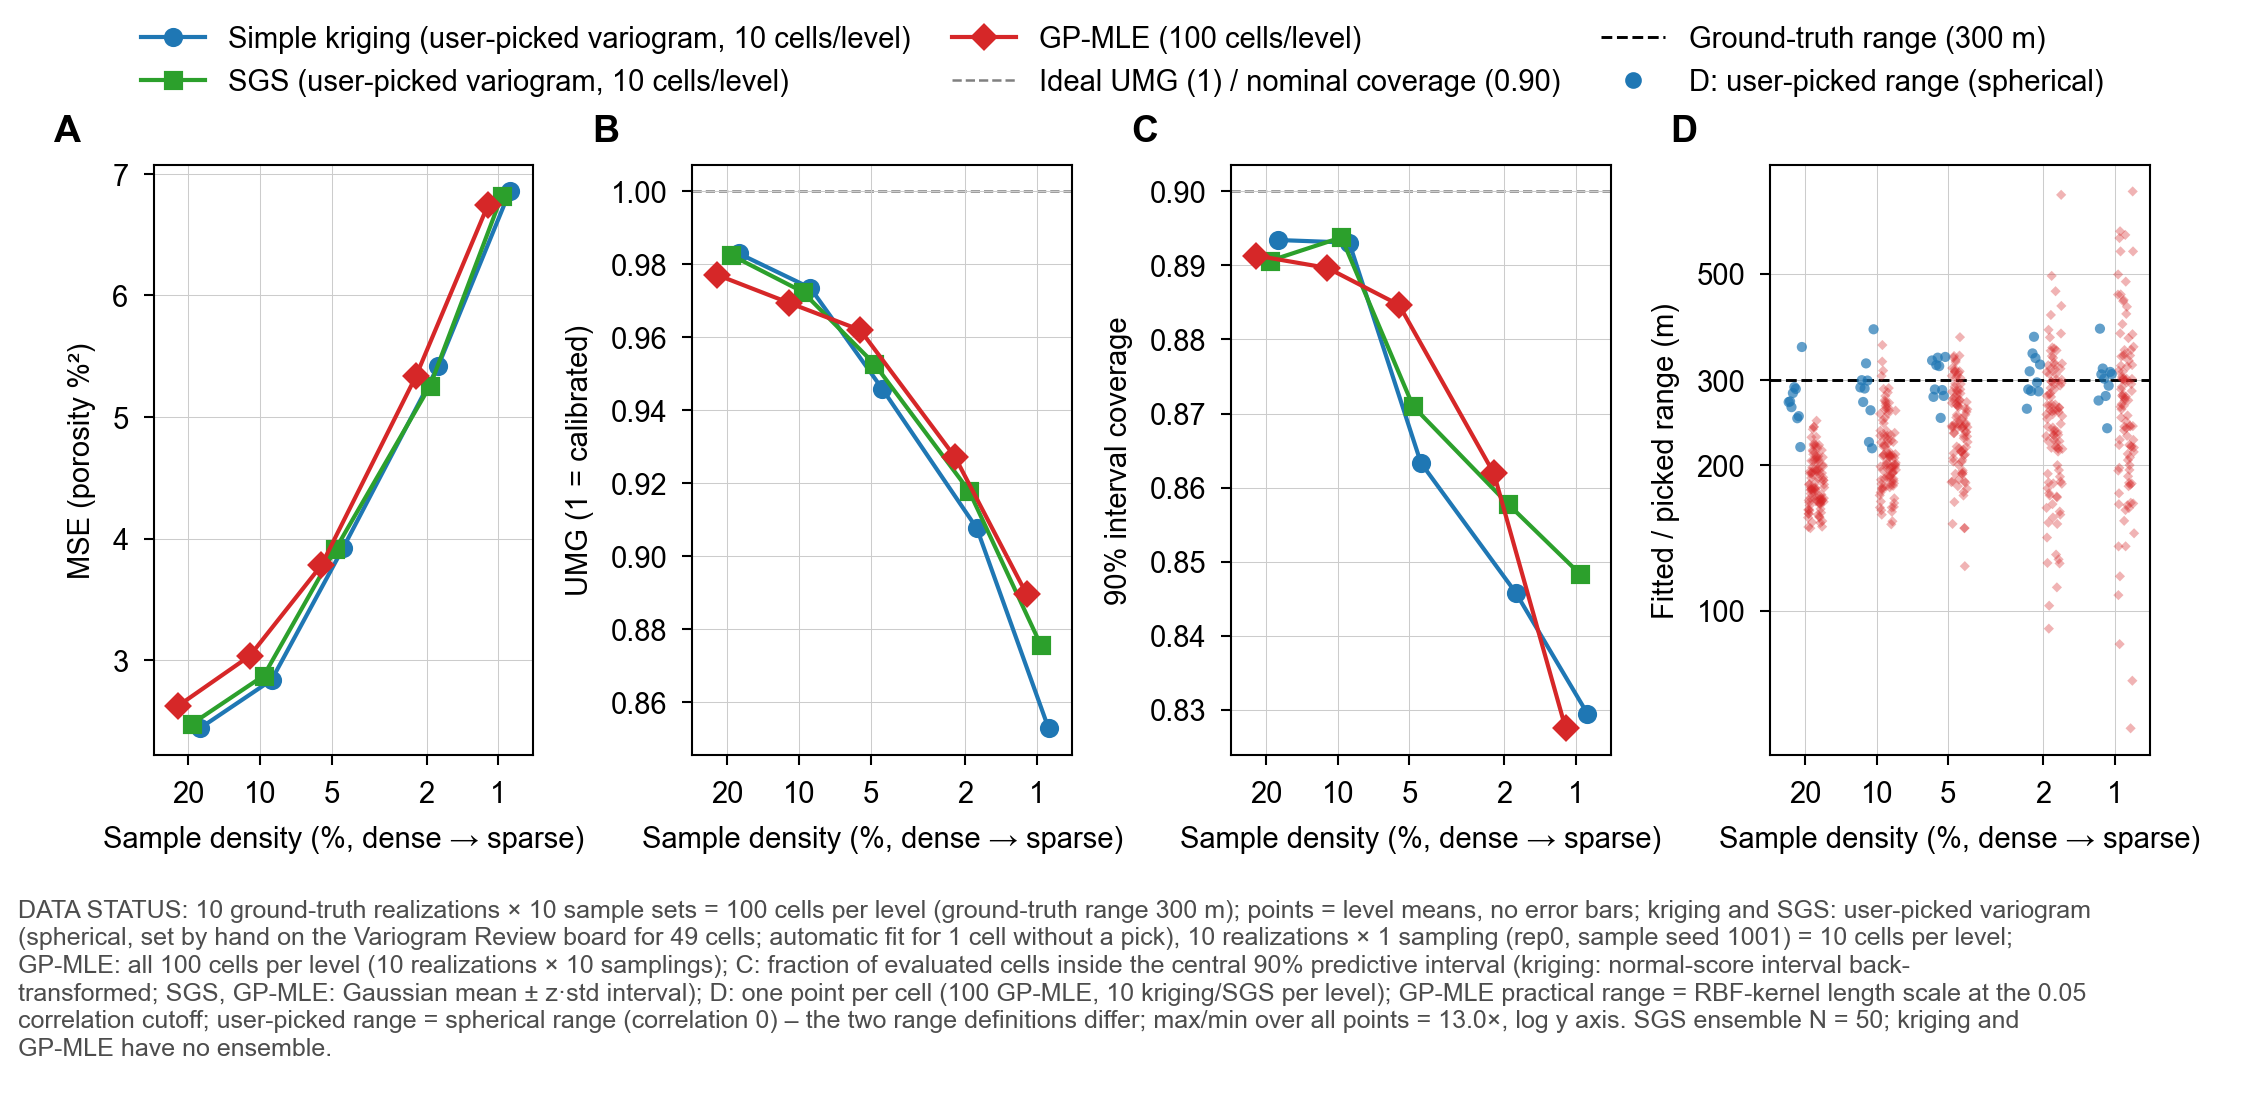
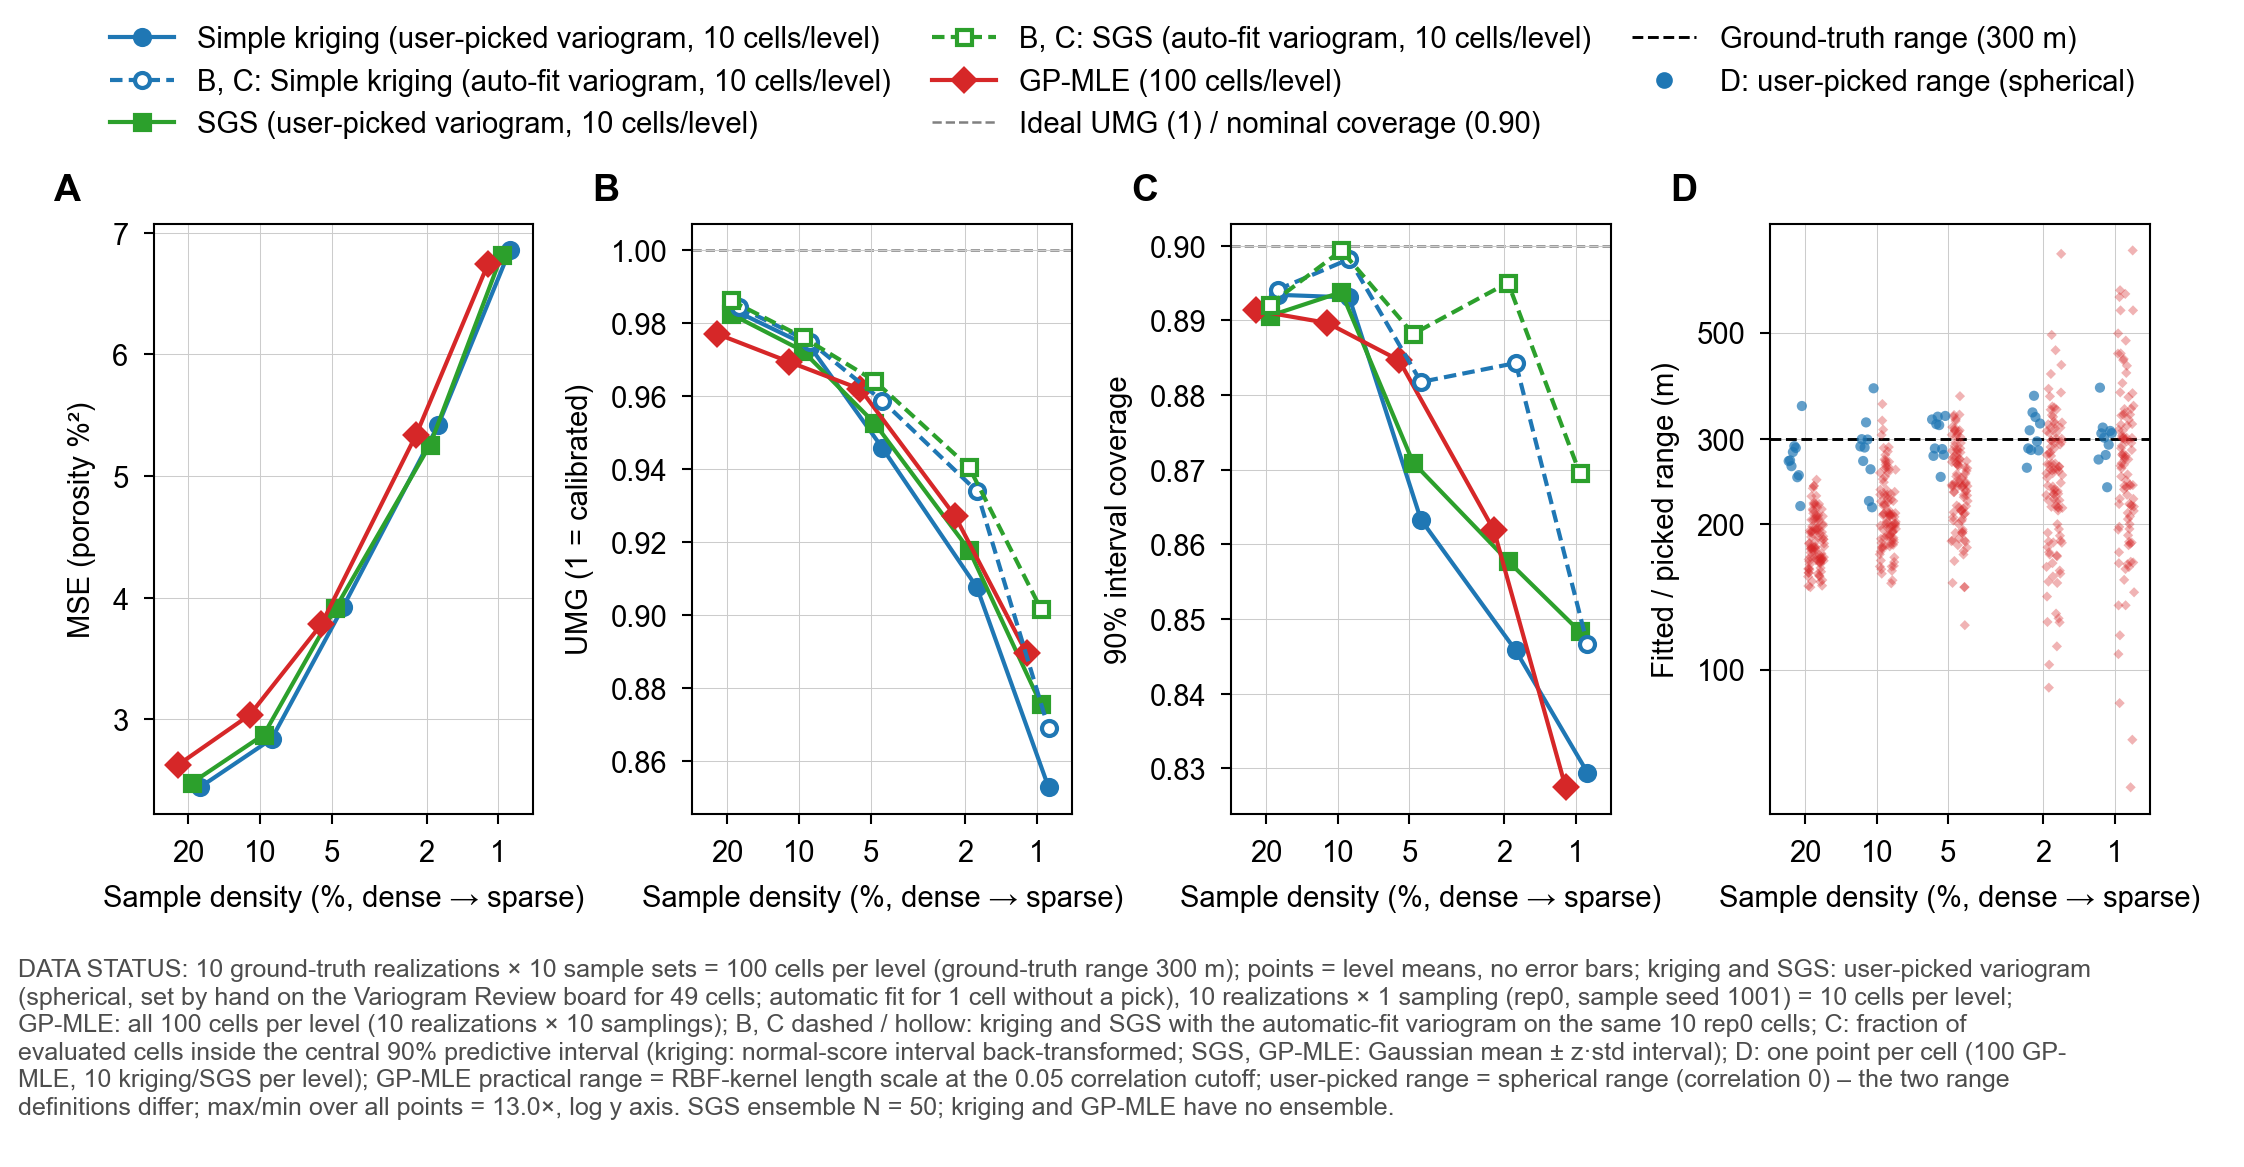
F3-2: show auto-fit-variogram kriging/SGS as dashed lines in B and C
User wants the confirmed-variogram results read against the automatic-fit
ones; drawn on the same 10 rep0 cells per density so the two differ only in
the variogram. F1-F7 outputs unchanged.

diff --git a/results/processed/paper_storyboard/make_storyboard_figures.py b/results/processed/paper_storyboard/make_storyboard_figures.py
@@ -1271,6 +1271,19 @@ def figure_f3_2(mt):
     pk["method"] = pk["method"].map({"kriging_picked": "kriging", "sgs_picked": "sgs"})
     summ = pd.concat([pk, gp_summ[pk.columns.intersection(gp_summ.columns)]], ignore_index=True)
     methods = ["kriging", "sgs", "gp_mle"]
+    # B, C extra series (user request 2026-11-18): kriging / SGS with the AUTOMATIC-fit
+    # variogram on the SAME rep0 cells (dashed, hollow markers)
+    im = read_metrics_csv(INF_METRICS)
+    im = im[(im["experiment"] == a["experiment"]) & (im["sample_rep"] == PICK_SAMPLE_REP)]
+    if set(im["method"]) != set(INF_METHODS) or \
+            set(zip(im["axis_level"], im["truth_seed"], im["sample_seed"])) != \
+            set(zip(pc["axis_level"], pc["truth_seed"], pc["sample_seed"])):
+        raise ValueError(f"{_rel(INF_METRICS)}: rep0 auto-fit cells differ from the user-picked cells.")
+    inf_summ = _summarize(im)
+    if set(inf_summ["n"]) != {n_pick}:
+        raise ValueError(f"{_rel(INF_METRICS)}: expected {n_pick} rep0 cells per level.")
+    summ_bc = pd.concat([summ, inf_summ[summ.columns.intersection(inf_summ.columns)]], ignore_index=True)
+    methods_bc = ["kriging", "kriging_inferred", "sgs", "sgs_inferred", "gp_mle"]
     n_src = pc["vario_source"].value_counts().to_dict()
     auto_cells = pc[pc["vario_source"] == "auto"]
     unconf = pc[pc["pick_confirmed"].astype(str) == "False"]
@@ -1285,21 +1298,22 @@ def figure_f3_2(mt):
         f"{n_src.get('pick', 0)} cells; automatic fit for {n_src.get('auto', 0)} cell without a pick), "
         f"{a['n_truth']} realizations × 1 sampling ({PICK_SAMPLE_REP}, sample seed {a['sample_seed']}) = "
         f"{n_pick} cells per level; GP-MLE: all {F3_2_GP_N_CELLS} cells per level (10 realizations × 10 "
-        f"samplings); C: fraction of evaluated cells inside the central {COV90_NOMINAL:.0%} predictive interval "
+        f"samplings); B, C dashed / hollow: kriging and SGS with the automatic-fit variogram on the same "
+        f"{n_pick} {PICK_SAMPLE_REP} cells; C: fraction of evaluated cells inside the central {COV90_NOMINAL:.0%} predictive interval "
         f"(kriging: normal-score interval back-transformed; SGS, GP-MLE: Gaussian mean ± z·std interval); "
         f"D: one point per cell ({F3_2_GP_N_CELLS} GP-MLE, {n_pick} kriging/SGS per level); GP-MLE practical "
         f"range = RBF-kernel length scale at the 0.05 correlation cutoff; user-picked range = spherical range "
         f"(correlation 0) – the two range definitions differ; max/min over all points = {spread:.1f}×, "
         f"{ax_scale} y axis. SGS ensemble N = {mt['n_ens']}; kriging and GP-MLE have no ensemble."
     )
-    fig, rect = _new_figure(plot_height_mm=F3_PLOT_HEIGHT_MM, status_text=note, top_mm=14.0,
+    fig, rect = _new_figure(plot_height_mm=F3_PLOT_HEIGHT_MM, status_text=note, top_mm=19.0,
                             right_mm=F3_RIGHT_MM)
     gs = fig.add_gridspec(1, 4, left=rect[0], bottom=rect[1], right=rect[2], top=rect[3], wspace=0.42)
     ax_a, ax_b, ax_c, ax_d = (fig.add_subplot(gs[0, i]) for i in range(4))
 
     _plot_density_metric(ax_a, summ, dens, "mse", methods=methods, errorbars=False)
-    _plot_density_metric(ax_b, summ, dens, "umg", methods=methods, errorbars=False)
-    _plot_density_metric(ax_c, summ, dens, "coverage90", methods=methods, errorbars=False)
+    _plot_density_metric(ax_b, summ_bc, dens, "umg", methods=methods_bc, errorbars=False)
+    _plot_density_metric(ax_c, summ_bc, dens, "coverage90", methods=methods_bc, errorbars=False)
     ax_b.axhline(1.0, color="gray", linestyle="--", linewidth=0.6, zorder=1)
     ax_c.axhline(COV90_NOMINAL, color="gray", linestyle="--", linewidth=0.6, zorder=1)
     ax_a.set_ylabel(MSE_LABEL)
@@ -1341,7 +1355,8 @@ def figure_f3_2(mt):
         _panel_label(ax, letter)
 
     for ax, metric, name in ((ax_a, "mse", "A"), (ax_b, "umg", "B"), (ax_c, "coverage90", "C")):
-        r = summ[summ["metric"] == metric]
+        r = (summ if name == "A" else summ_bc)
+        r = r[r["metric"] == metric]
         lo_, hi_ = float(r["mean"].min()), float(r["mean"].max())
         yl = ax.get_ylim()
         if yl[0] > lo_ or yl[1] < hi_:
@@ -1351,9 +1366,12 @@ def figure_f3_2(mt):
         "kriging": f"Simple kriging (user-picked variogram, {n_pick} cells/level)",
         "sgs": f"SGS (user-picked variogram, {n_pick} cells/level)",
         "gp_mle": f"GP-MLE ({F3_2_GP_N_CELLS} cells/level)",
+        "kriging_inferred": f"B, C: Simple kriging (auto-fit variogram, {n_pick} cells/level)",
+        "sgs_inferred": f"B, C: SGS (auto-fit variogram, {n_pick} cells/level)",
     }
-    handles = _method_handles(methods=methods)
-    for h, m in zip(handles, methods):
+    leg_methods = ["kriging", "kriging_inferred", "sgs", "sgs_inferred", "gp_mle"]
+    handles = _method_handles(methods=leg_methods)
+    for h, m in zip(handles, leg_methods):
         h.set_label(labels[m])
     handles += [
         Line2D([0], [0], color="gray", linestyle="--", linewidth=0.6,
@@ -1441,6 +1459,10 @@ def figure_f3_2(mt):
             + _density_table(r0["pick_summary"], "mse", PICK_METHODS),
             "user-picked UMG: " + _density_table(r0["pick_summary"], "umg", PICK_METHODS),
             "user-picked coverage90: " + _density_table(r0["pick_summary"], "coverage90", PICK_METHODS),
+            f"B, C auto-fit variogram ({_rel(INF_METRICS)} rows sample_rep == {PICK_SAMPLE_REP}, re-summarized) "
+            "UMG: " + _density_table(inf_summ, "umg", INF_METHODS),
+            "auto-fit coverage90: " + _density_table(inf_summ, "coverage90", INF_METHODS),
+            "auto-fit MSE (not drawn): " + _density_table(inf_summ, "mse", INF_METHODS),
             f"GP-MLE ({F3_2_GP_N_CELLS} cells) MSE: " + _density_table(gp_summ, "mse", ["gp_mle"]),
             f"GP-MLE ({F3_2_GP_N_CELLS} cells) UMG: " + _density_table(gp_summ, "umg", ["gp_mle"]),
             f"GP-MLE ({F3_2_GP_N_CELLS} cells) coverage90: " + _density_table(gp_summ, "coverage90", ["gp_mle"]),

diff --git a/results/processed/paper_storyboard/build_storyboard_artifact.py b/results/processed/paper_storyboard/build_storyboard_artifact.py
@@ -45,6 +45,7 @@ FIGS = {
         body=[
             "한 행 그림입니다. A는 MSE, B는 UMG, C는 90% 구간 coverage, D는 range입니다. 점은 레벨 평균이고 error bar는 없습니다.",
             "kriging과 SGS는 Variogram Review 보드에서 셀마다 직접 고른 spherical variogram으로 돌린 결과이고, 밀도당 ground truth 10개 × 샘플셋 rep0 1개(sample seed 1001) = 10셀입니다(49셀은 직접 고른 값, 고르지 않은 1셀(2 %, truth 101)은 자동 적합값; SGS N = 50). 보드에는 각 셀의 정답 variogram 곡선이 함께 표시되어 있었습니다. GP-MLE는 밀도당 100셀(ground truth 10개 × 샘플셋 10개) 전체의 평균입니다. 따라서 GP-MLE와 kriging/SGS는 같은 셀 집합이 아닙니다.",
+            "B와 C의 점선과 속이 빈 마커(파랑 kriging, 초록 SGS)는 같은 10셀에서 셀마다 자동 적합한 variogram으로 돌린 결과입니다.",
             "D는 셀마다 range를 점 하나로 찍은 것입니다(로그 축). 빨간 점(왼쪽)은 GP-MLE practical range(상관 0.05 기준, 레벨당 100개), 파란 점(오른쪽)은 kriging과 SGS가 쓴 직접 고른 spherical range(상관 0 기준, 레벨당 10개)입니다. 점선은 ground-truth range 300 m입니다.",
         ]),
     "F4": dict(
@@ -109,6 +110,7 @@ CLAIMS = {
         "A: MSE는 밀도 20 %에서 1 %로 갈 때 kriging 2.44 → 6.86, SGS 2.48 → 6.82(직접 고른 variogram, 10셀), GP-MLE 2.63 → 6.74(100셀)입니다.",
         "B: UMG는 kriging 0.983 → 0.853, SGS 0.983 → 0.876, GP-MLE 0.977 → 0.890입니다.",
         "C: 90% coverage는 kriging 0.893 → 0.829, SGS 0.891 → 0.848, GP-MLE 0.891 → 0.827입니다.",
+        "B, C 점선(자동 적합 variogram, 같은 10셀): UMG는 kriging 0.985 → 0.869, SGS 0.986 → 0.902이고, 90% coverage는 kriging 0.894 → 0.847, SGS 0.892 → 0.870입니다.",
         "D: GP-MLE practical range(100셀)의 중앙값은 20 %에서 181 m, 1 %에서 270 m이고, 범위는 20 %에서 148~248 m, 1 %에서 57~740 m입니다. 300 m를 넘는 셀은 100개 중 20 % 0개, 10 % 4개, 5 % 16개, 2 % 26개, 1 % 38개입니다. 직접 고른 range(10셀)의 중앙값은 271~306 m입니다.",
     ],
     "F4": [
